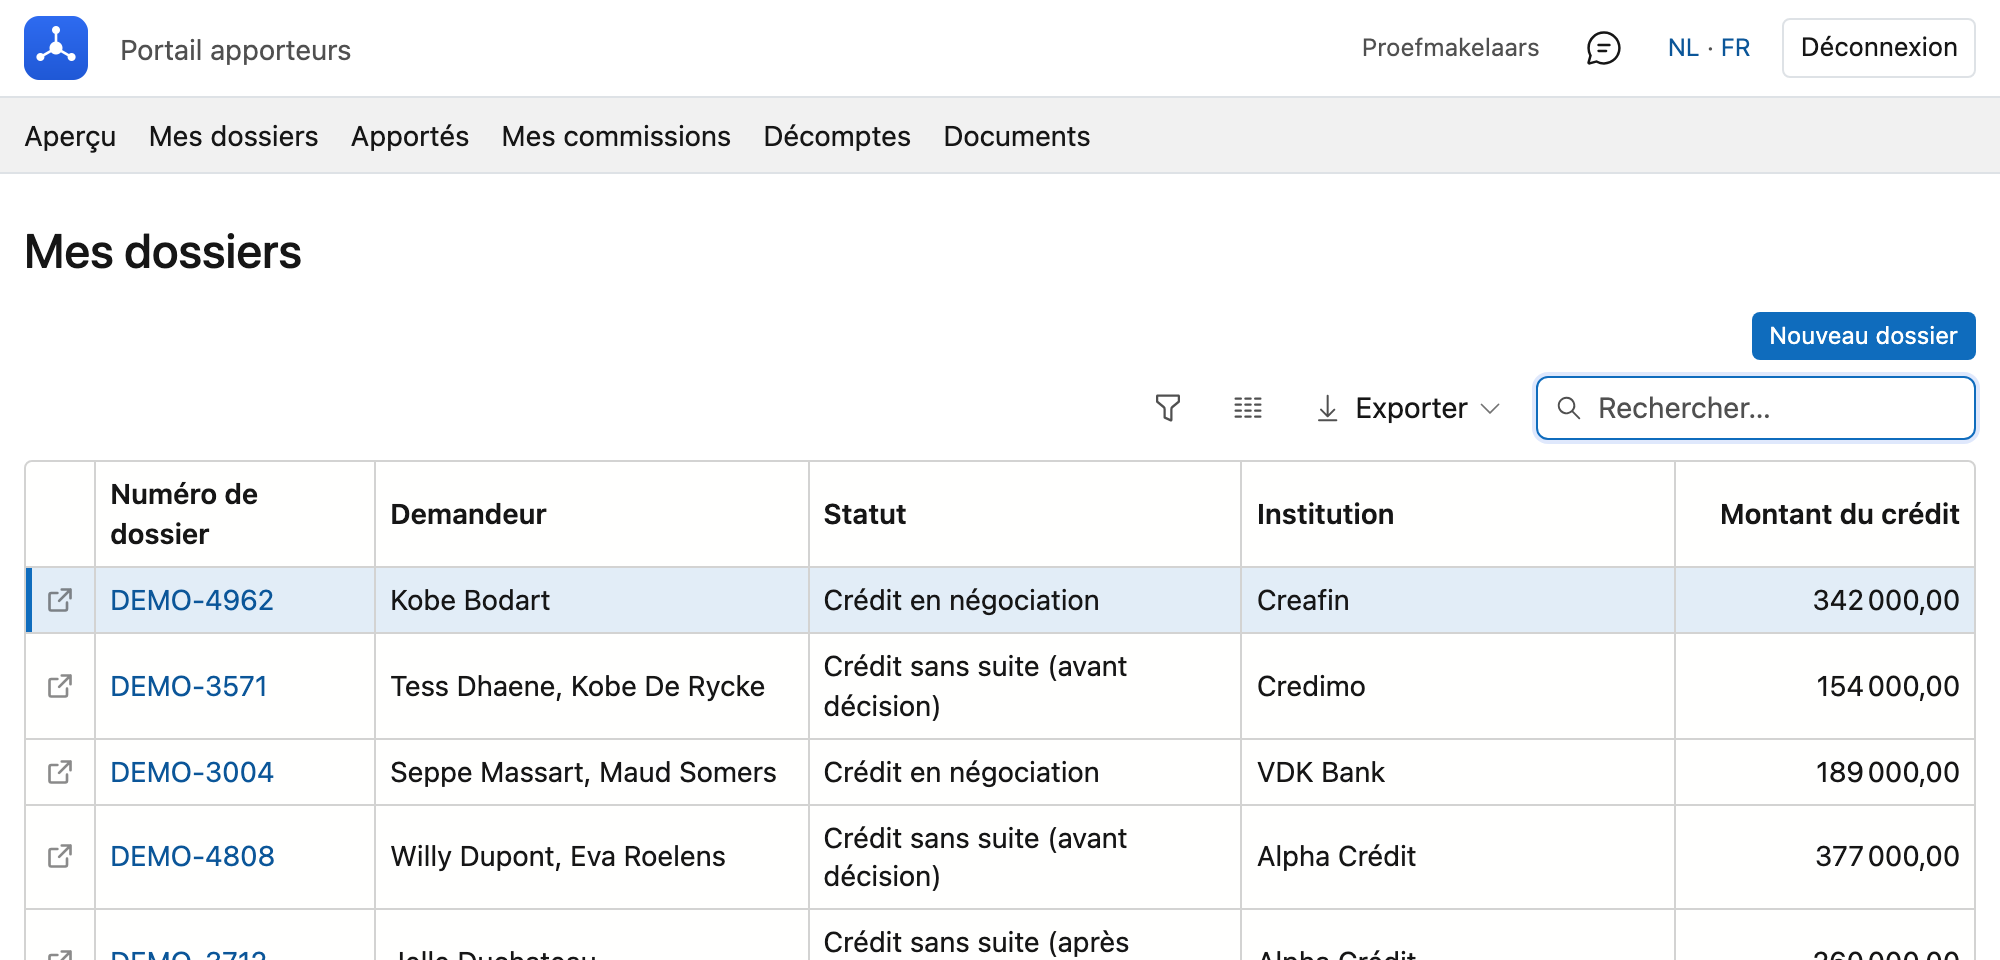
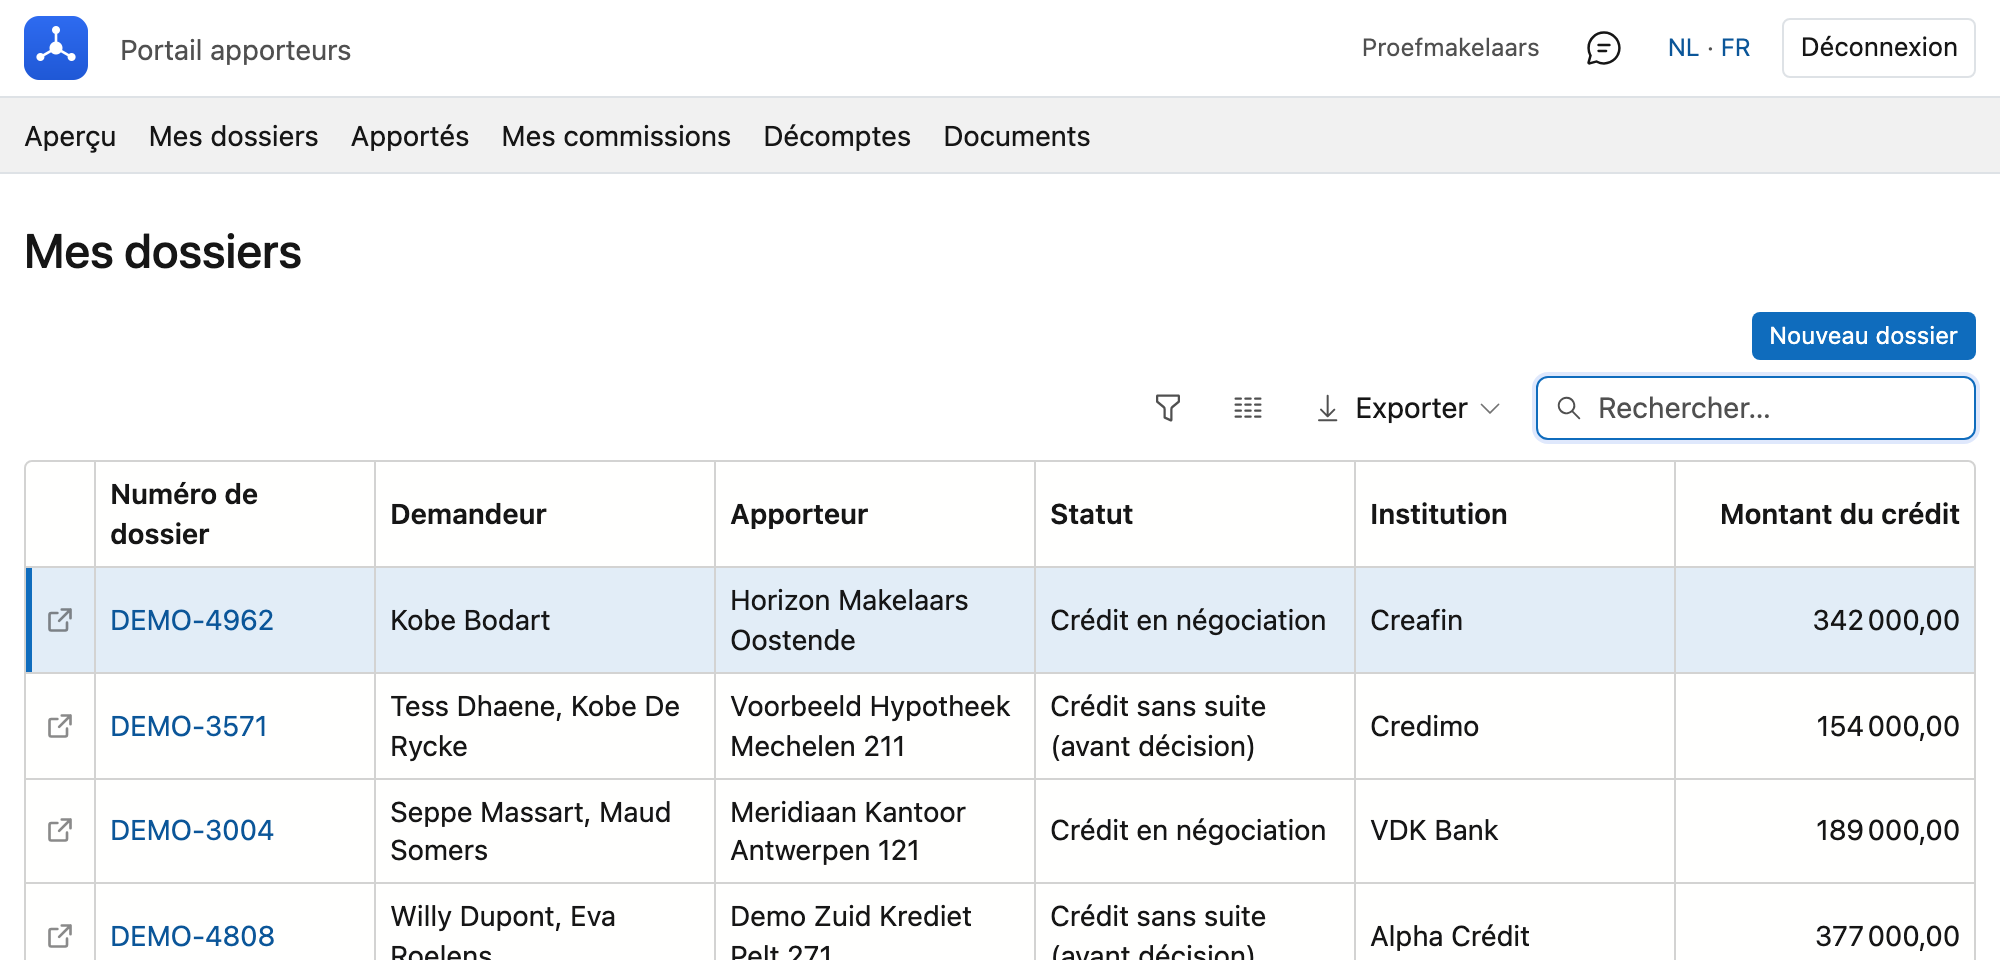
Portaal: kolom Aanbrenger in Mijn dossiers, en wanneer Afrekeningen en Documenten in de menubalk staan
- Melding van Hypotheekwereld (27/10): de beelden tonen de volledige menubalk, het portaal enkel wat inhoud heeft.
  De schermenlijst op de portaalpagina noemt nu ook Afrekeningen en Documenten, met een kader over wanneer elk
  onderdeel verschijnt (NL/FR).
- Mijn dossiers: de kolom Aanbrenger voor wie ook de dossiers van zijn tak ziet; de zin over een teller boven de
  lijst weg (die teller toont het scherm niet meer). Alt-tekst bijgewerkt.
- Beeldronde portaal-dossiers (NL/FR) op app f9400da5 met vaste klok; sha in de uitslag met de hand rechtgezet
  (de generator leest de hoofdmap, niet de worktree).

diff --git a/docs/portaal/dossiers.fr.md b/docs/portaal/dossiers.fr.md
@@ -6,11 +6,11 @@ Les dossiers dans lesquels vous figurez comme apporteur.
 
 Dans le portail, cliquez en haut sur **Mes dossiers**.
 
-![La liste Mes dossiers dans le portail apporteurs, avec par ligne le numéro de dossier, le demandeur, le statut, l'organisme et le montant du crédit, et en haut un champ de recherche avec le nombre de dossiers trouvés.](../images/portaal-dossiers-fr.png "Mes dossiers dans le portail apporteurs")
+![La liste Mes dossiers dans le portail apporteurs, avec par ligne le numéro de dossier, le demandeur, l'apporteur, le statut, l'organisme et le montant du crédit, et en haut le bouton Nouveau dossier et un champ de recherche.](../images/portaal-dossiers-fr.png "Mes dossiers dans le portail apporteurs")
 
 ## La liste
 
-Au-dessus de la liste figure le nombre de dossiers. Par dossier, vous voyez le **numéro**, le **demandeur**,
+Par dossier, vous voyez le **numéro**, le **demandeur**,
 le **statut**, l'**organisme** et le **montant du crédit**.
 
 En haut à droite se trouve un **champ de recherche**. Tapez une partie d'un numéro de dossier, du nom d'un
@@ -23,6 +23,9 @@ comme fiche.
 
 Si vous êtes apporteur principal et que votre bureau l'a configuré ainsi, les dossiers des bureaux et
 collaborateurs qui dépendent de vous apparaissent également ici. Sinon, vous ne voyez que les vôtres.
+
+Dans ce cas, une colonne **Apporteur** indique à qui appartient chaque dossier. Tapez un nom dans le champ de
+recherche, ou filtrez sur cette colonne, et vous ne voyez que les dossiers de cet apporteur.
 
 Cliquez sur un numéro de dossier pour l'ouvrir. Avec **Ctrl-clic** (Cmd sur un Mac), la molette ou la **flèche** en début de ligne, il s'ouvre dans un **nouvel onglet** de votre navigateur ; la liste reste affichée.
 

diff --git a/docs/portaal/dossiers.md b/docs/portaal/dossiers.md
@@ -6,11 +6,11 @@ De dossiers waarin u als aanbrenger staat.
 
 Klik in het portaal bovenaan op **Mijn dossiers**.
 
-![De lijst Mijn dossiers in het aanbrengersportaal, met per rij het dossiernummer, de aanvrager, de status, de instelling en het kredietbedrag, en bovenaan een zoekveld met het aantal gevonden dossiers.](../images/portaal-dossiers.png "Mijn dossiers in het aanbrengersportaal")
+![De lijst Mijn dossiers in het aanbrengersportaal, met per rij het dossiernummer, de aanvrager, de aanbrenger, de status, de instelling en het kredietbedrag, en bovenaan de knop Nieuw dossier en een zoekveld.](../images/portaal-dossiers.png "Mijn dossiers in het aanbrengersportaal")
 
 ## De lijst
 
-Boven de lijst staat hoeveel dossiers er zijn. Per dossier ziet u het **dossiernummer**, de **aanvrager**,
+Per dossier ziet u het **dossiernummer**, de **aanvrager**,
 de **status**, de **instelling** en het **kredietbedrag**.
 
 Rechtsboven staat een **zoekveld**. Typ een stuk van een dossiernummer, van de naam van een aanvrager of van een
@@ -21,6 +21,9 @@ geen enkel dossier hebt: het dossier wordt meteen aangemaakt op uw naam en opent
 
 Bent u hoofdaanbrenger en heeft uw kantoor dat zo ingesteld, dan staan hier ook de dossiers van de
 kantoren en medewerkers onder u. Anders ziet u enkel uw eigen dossiers.
+
+In dat geval staat er ook een kolom **Aanbrenger**: bij wie elk dossier hoort. Typ een naam in het zoekveld, of
+filter op die kolom, en u ziet enkel de dossiers van die aanbrenger.
 
 Klik op een dossiernummer om het dossier te openen. Met **Ctrl-klik** (Cmd op een Mac), het muiswiel of het **pijltje** vooraan de rij opent het in een **nieuw tabblad** van uw browser; de lijst blijft staan.
 

diff --git a/docs/portaal/index.fr.md b/docs/portaal/index.fr.md
@@ -51,3 +51,10 @@ simplement le dossier apparaître dans votre propre liste.
 - [Mes dossiers](dossiers.fr.md) — la liste, et ce que contient un dossier
 - [Apportés](aangebracht.fr.md) — les clients que l'apporteur a transmis, avec leur statut, et la transmission d'un nouveau client
 - [Mes commissions](commissies.fr.md) — par année, par mois et par écriture
+- [Décomptes à mes courtiers](afrekeningen.fr.md) — pour un bureau avec ses propres courtiers : ce qu'il leur a reversé et décompte
+- [Documents](documenten.fr.md) — les documents que votre bureau partage avec les apporteurs
+
+!!! info "Toutes les rubriques ne figurent pas toujours dans la barre de menu"
+    Une rubrique sans contenu n'apparaît pas. **Décomptes** apparaît dès que le bureau a reversé une commission à un
+    courtier, **Documents** dès que votre bureau partage des documents avec les apporteurs, et **Mes commissions**
+    uniquement avec la case *Afficher les commissions dans le portail*. Les images de ce manuel montrent la barre complète.

diff --git a/docs/portaal/index.md b/docs/portaal/index.md
@@ -51,3 +51,10 @@ eigen lijst verschijnen.
 - [Mijn dossiers](dossiers.md) — de lijst, en wat er op een dossier staat
 - [Aangebracht](aangebracht.md) — de klanten die de aanbrenger doorgaf, met hun status, en een nieuwe klant doorgeven
 - [Mijn commissies](commissies.md) — per jaar, per maand en per boeking
+- [Afrekeningen aan mijn makelaars](afrekeningen.md) — voor een kantoor met eigen makelaars: wat het hun doorgaf en afrekent
+- [Documenten](documenten.md) — de documenten die uw kantoor met de aanbrengers deelt
+
+!!! info "Niet elk onderdeel staat altijd in de menubalk"
+    Een onderdeel zonder inhoud blijft weg. **Afrekeningen** verschijnt zodra het kantoor commissie aan een makelaar
+    heeft doorgegeven, **Documenten** zodra uw kantoor documenten met de aanbrengers deelt, en **Mijn commissies**
+    enkel met het vinkje *Commissies tonen in het portaal*. De beelden in deze handleiding tonen de volledige balk.
